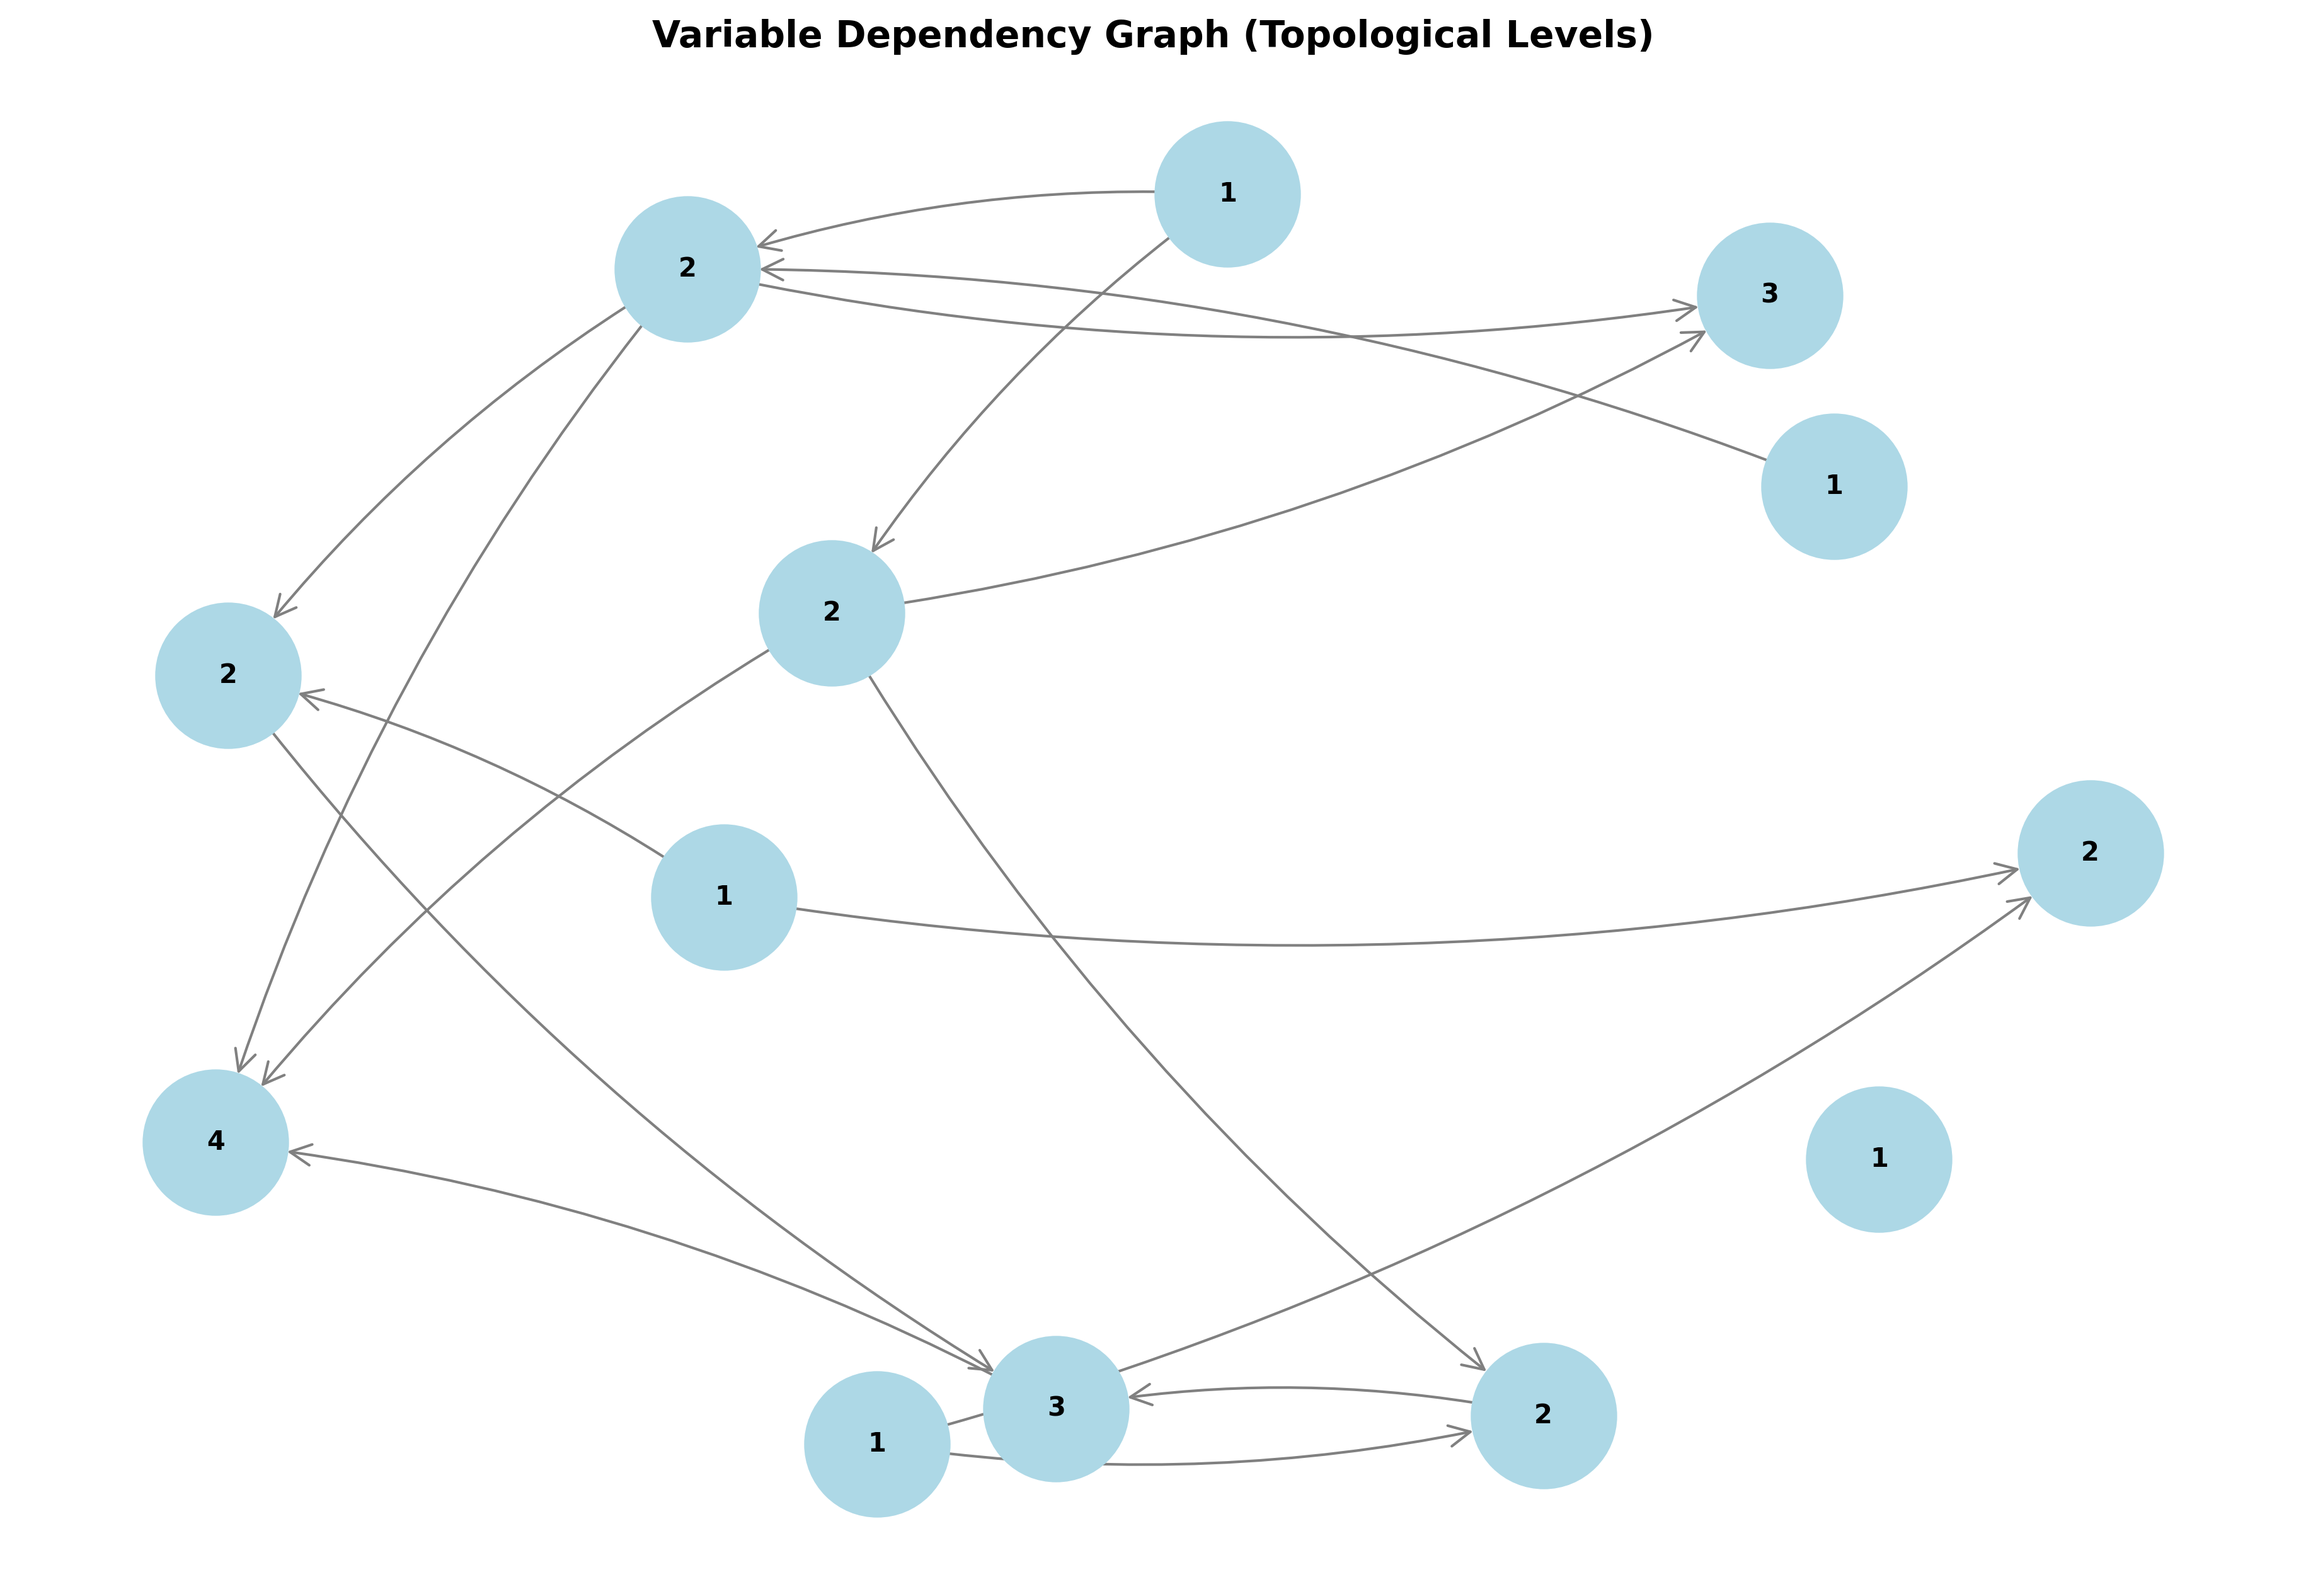
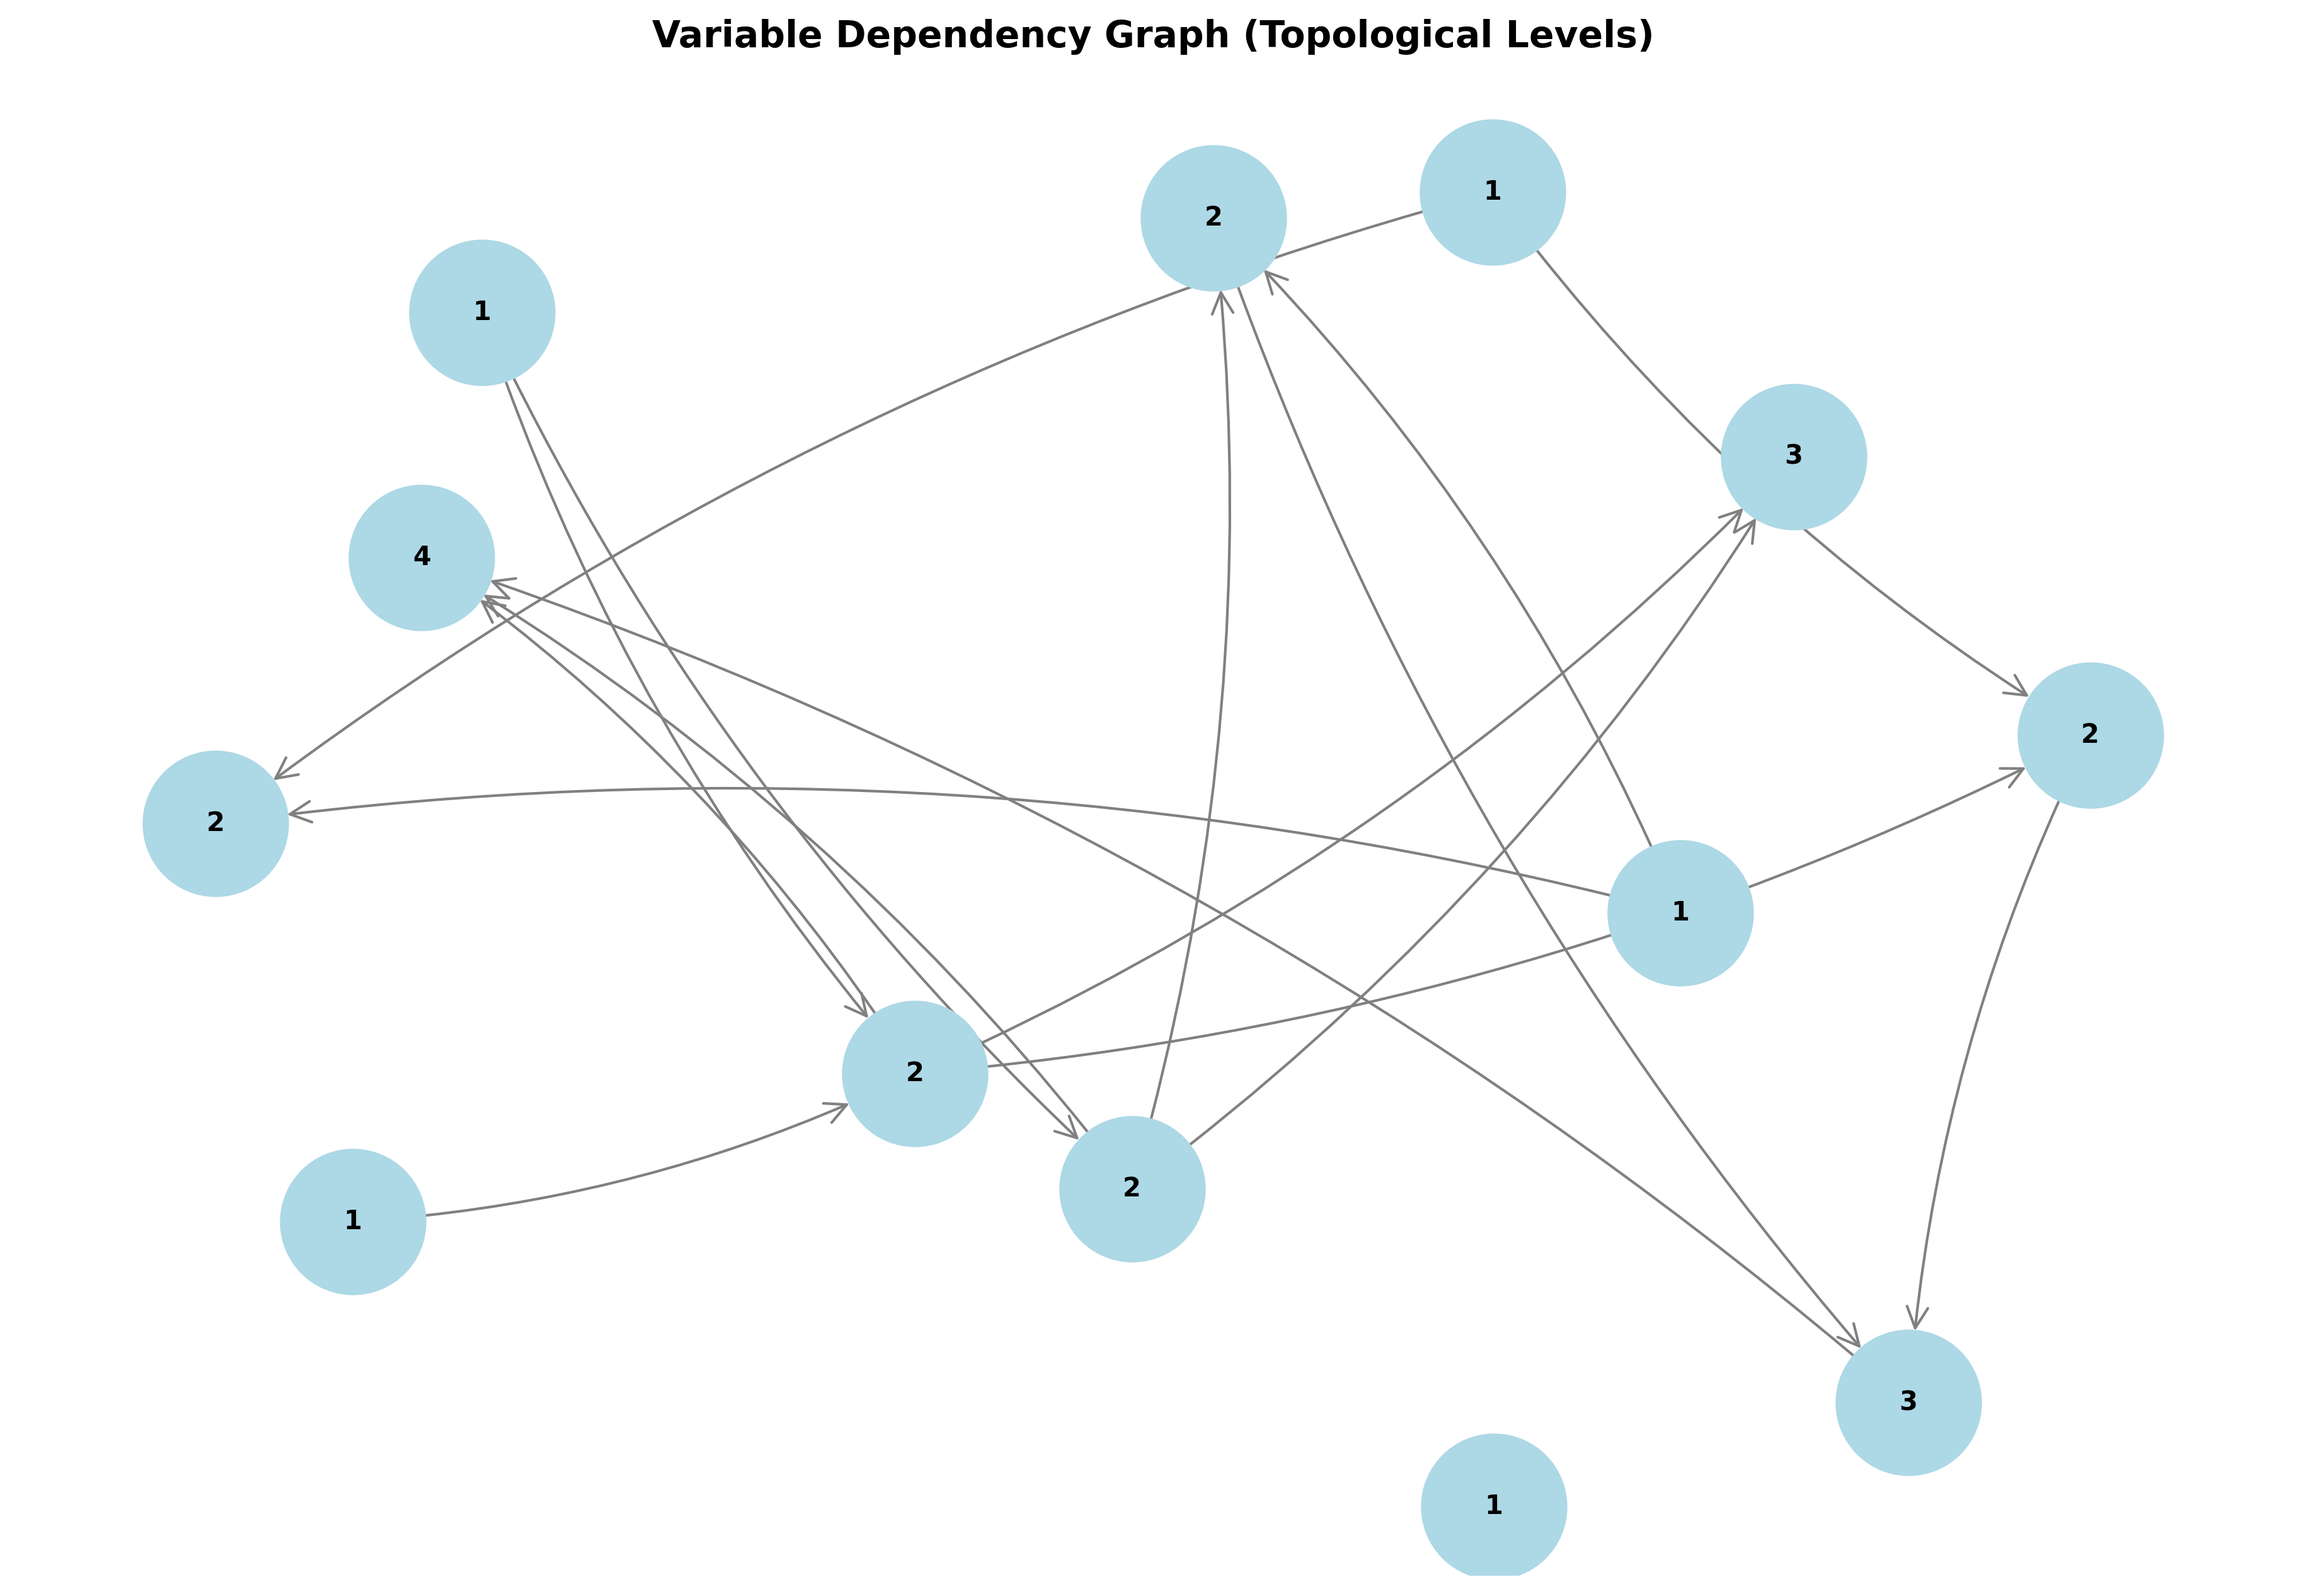
more about dependencies

diff --git a/examples/anova_table/producer.py b/examples/anova_table/producer.py
@@ -29,11 +29,11 @@ variable_attributes = {
     'sqtotal': {'type': 'numerical', 'tol': 0.05,  'givenvarlevel': 2},
     'dfgroups': {'type': 'numerical', 'tol': 0,  'givenvarlevel': 1},
     'dferrors': {'type': 'numerical', 'tol': 0,  'givenvarlevel': 1},
-    'dftotal': {'type': 'numerical', 'tol': 0,  'givenvarlevel': 2},
+    'dftotal': {'type': 'numerical', 'tol': 0,  'givenvarlevel': 3},
     'msqgroups': {'type': 'numerical', 'tol': 0.05,  'givenvarlevel': 2},
     'msqerrors': {'type': 'numerical', 'tol': 0.05,  'givenvarlevel': 2},
     'f': {'type': 'numerical', 'tol': 0.005,  'givenvarlevel': 3},
-    'sig': {'type': 'numerical', 'tol': 0.005,  'givenvarlevel': 3},
+    'sig': {'type': 'numerical', 'tol': 0.005,  'givenvarlevel': 4},
     'rejecth0': {'type': 'multichoice', 'givenvarlevel': 3},
 }
 
